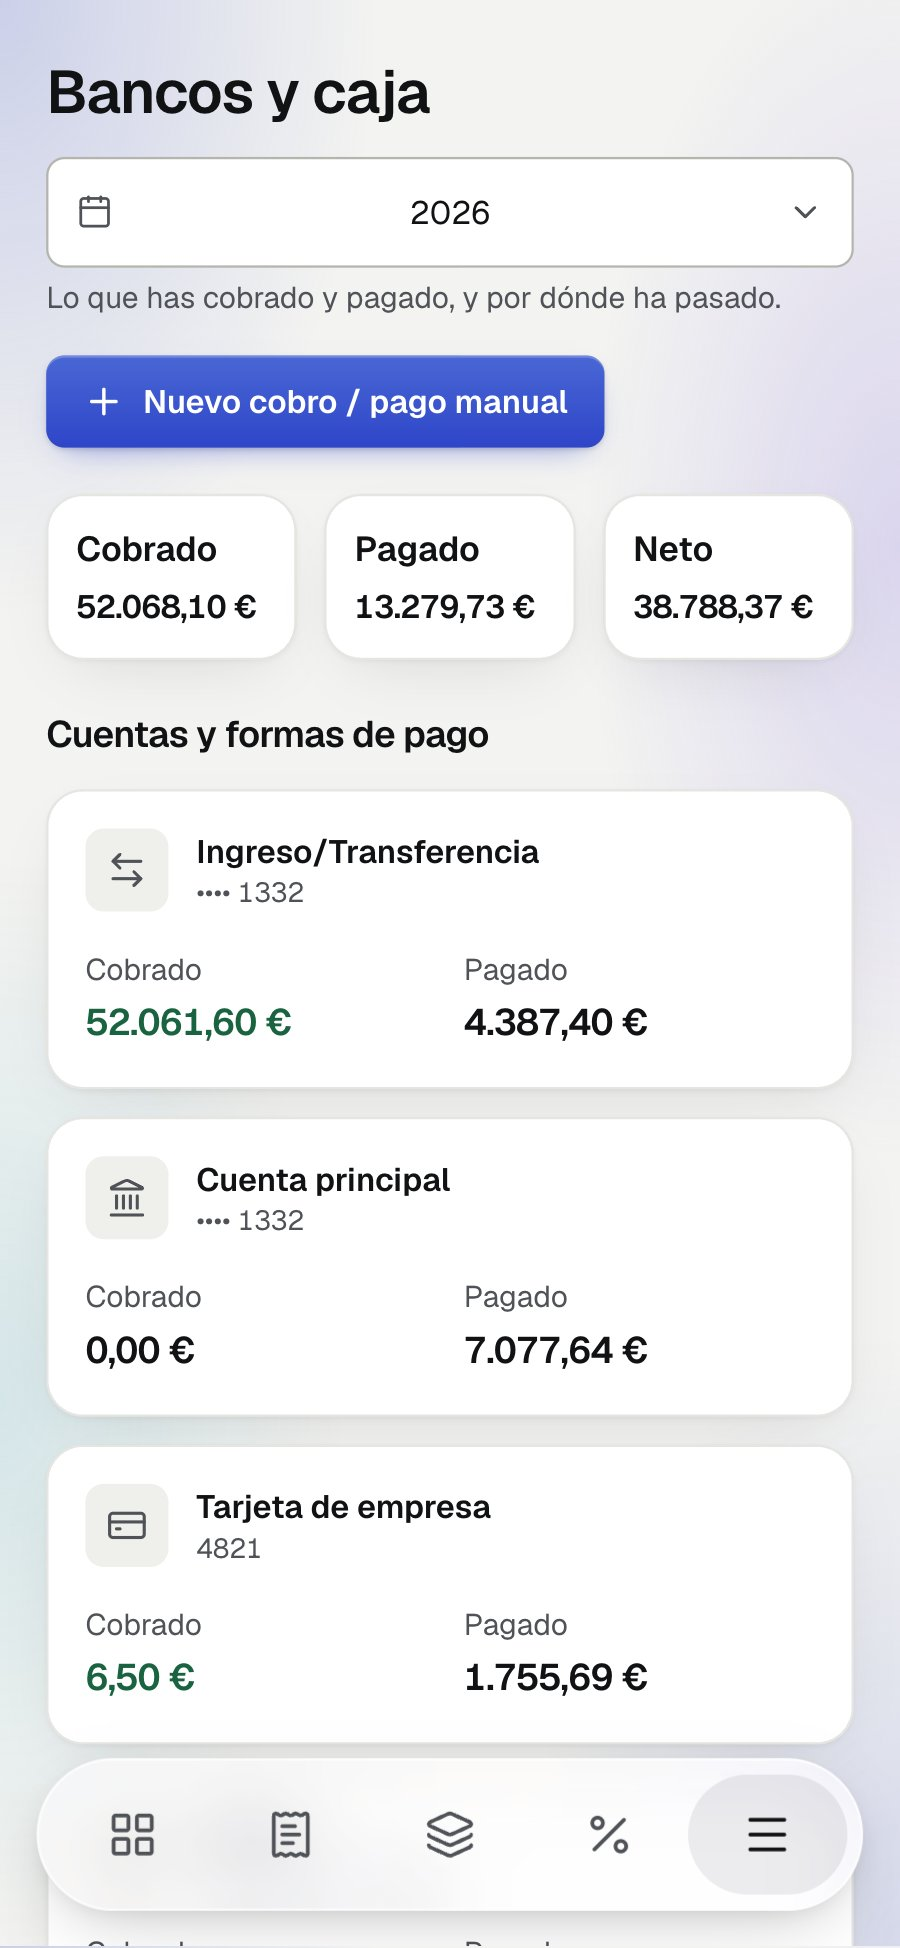
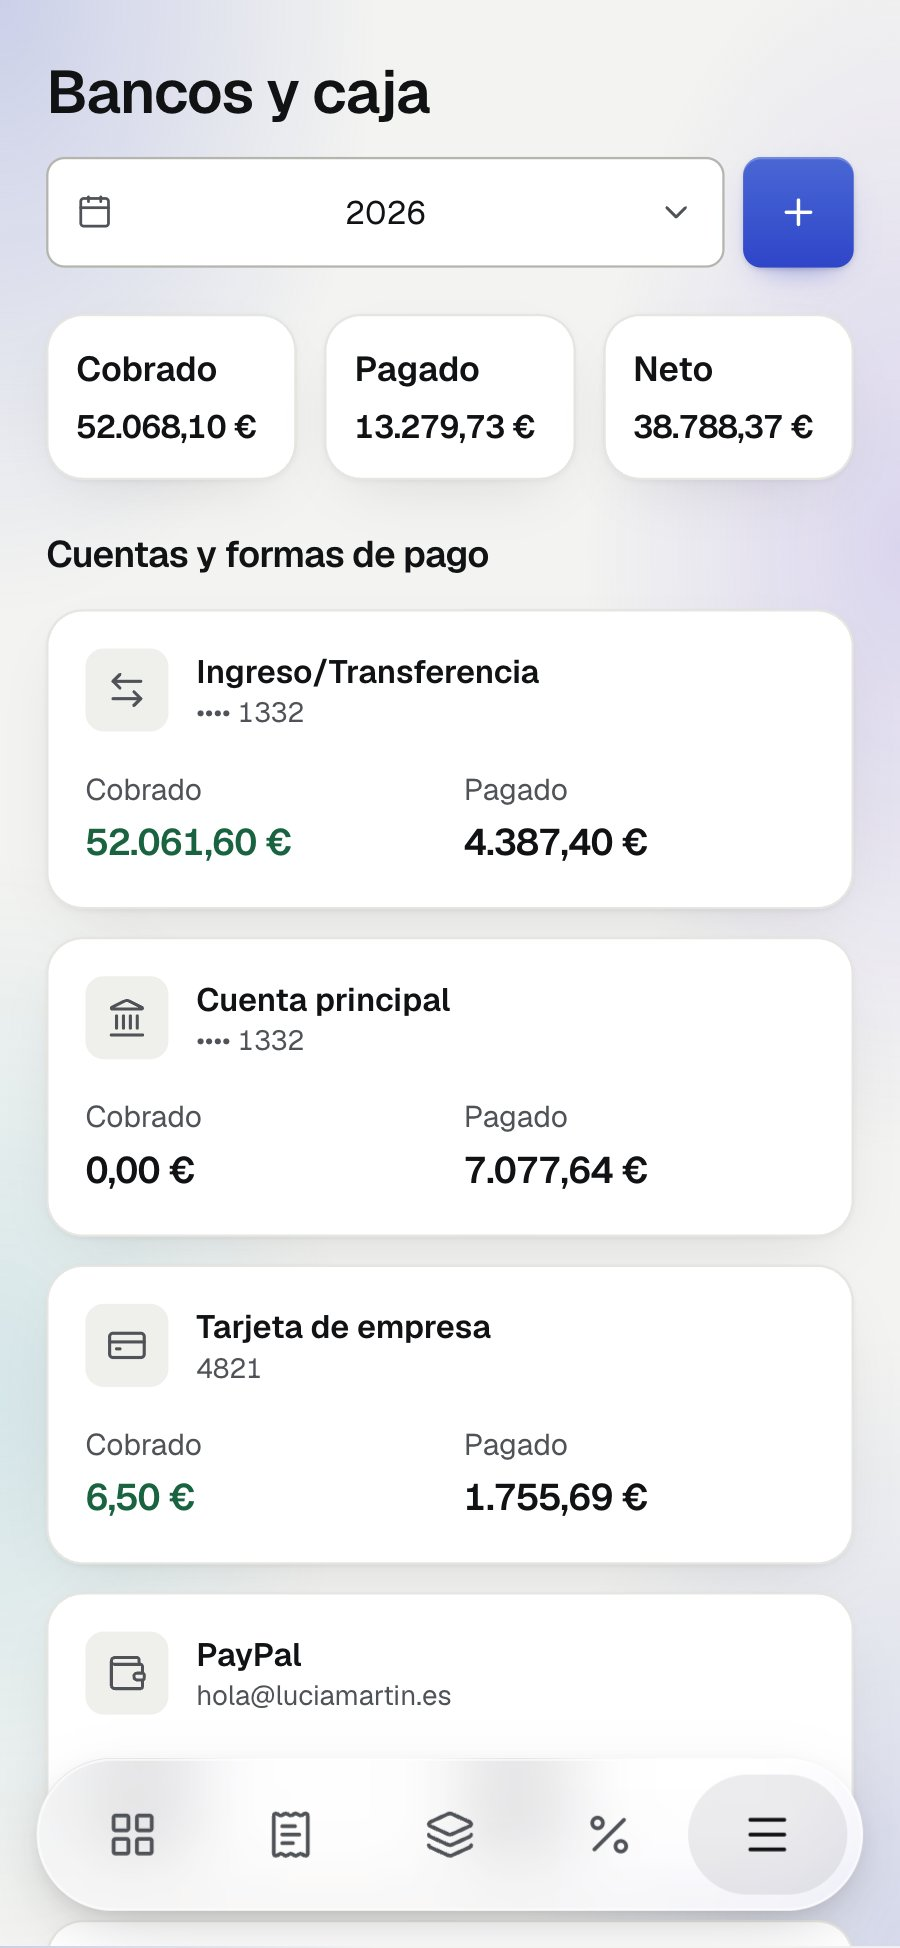
Fit the Bancos header on one row on phones
Drop the page description and, below lg, show the new-payment action as an
icon beside the period select. Retake the landing's Bancos screenshots.

diff --git a/apps/web/src/features/treasury/payments-page.tsx b/apps/web/src/features/treasury/payments-page.tsx
@@ -127,15 +127,25 @@ export function PaymentsPage() {
         <PageHeader
           title="Bancos y caja"
           inline={
-            <PeriodSelect
-              value={period}
-              onChange={setPeriod}
-              years={availableYears}
-              today={today}
-              className="h-12 w-full sm:h-10 sm:w-auto"
-            />
+            // Below lg the new-payment action is an icon beside the period, so both share one row
+            <div className="flex w-full items-center gap-2 sm:w-auto">
+              <PeriodSelect
+                value={period}
+                onChange={setPeriod}
+                years={availableYears}
+                today={today}
+                className="h-12 min-w-0 flex-1 sm:h-10 sm:w-auto sm:flex-none"
+              />
+              <Button
+                aria-label="Nuevo cobro / pago manual"
+                onClick={() => setCreating(true)}
+                className="size-12 shrink-0 px-0 sm:size-10 lg:hidden"
+              >
+                <Plus strokeWidth={2} aria-hidden="true" />
+              </Button>
+            </div>
           }
-          description="Lo que has cobrado y pagado, y por dónde ha pasado."
+          actionsClassName="max-lg:hidden"
           actions={
             <Button onClick={() => setCreating(true)}>
               <Plus strokeWidth={2} aria-hidden="true" />
